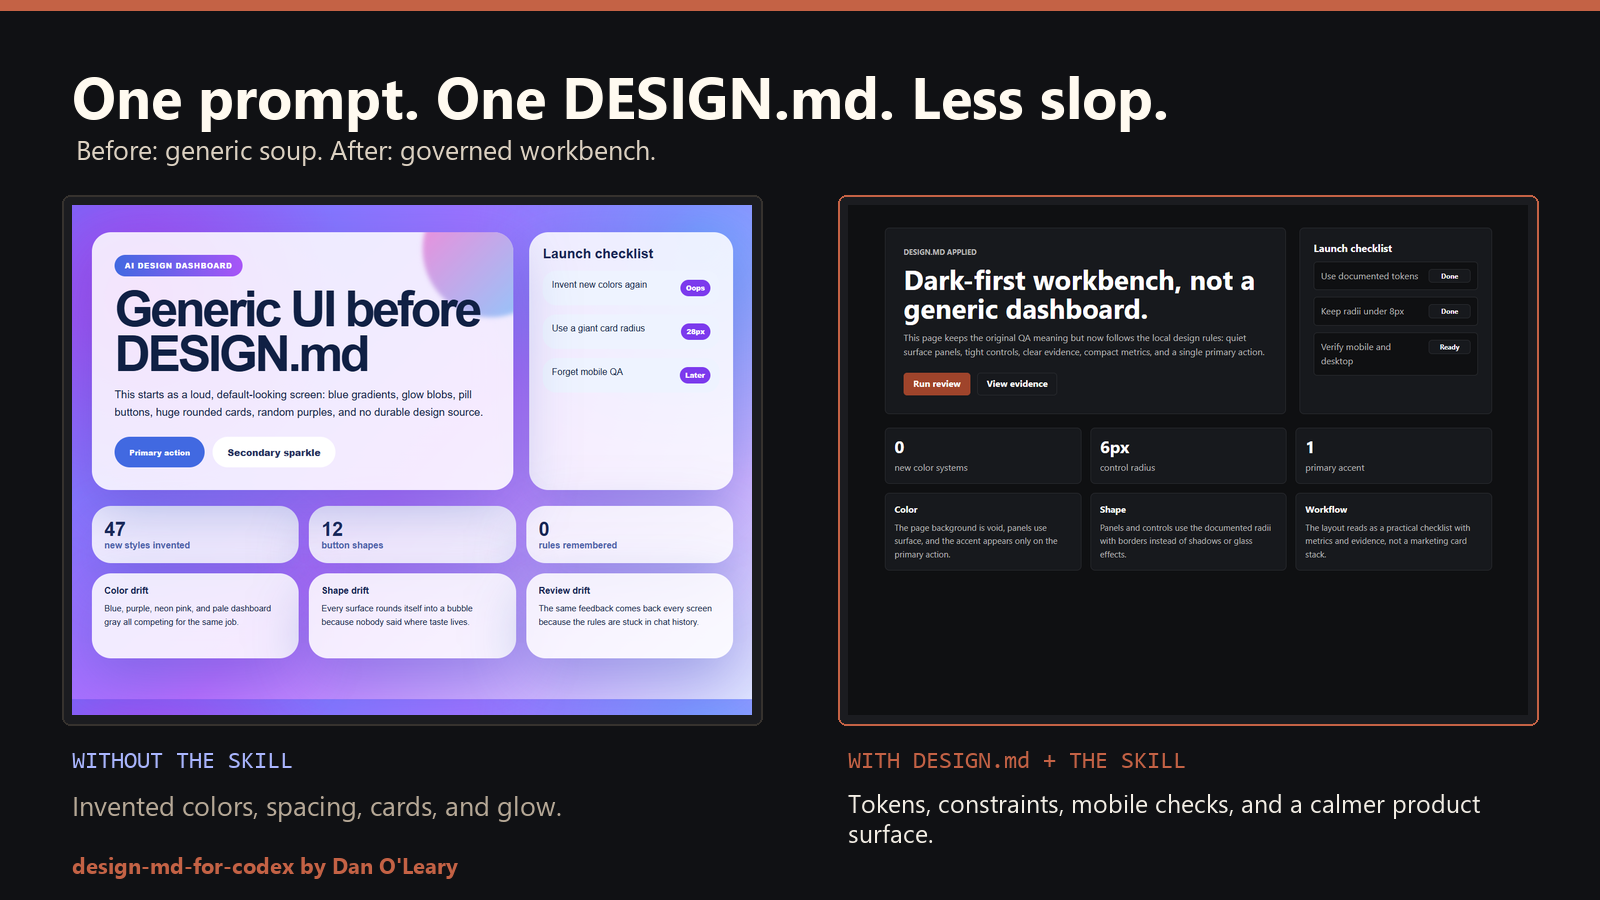
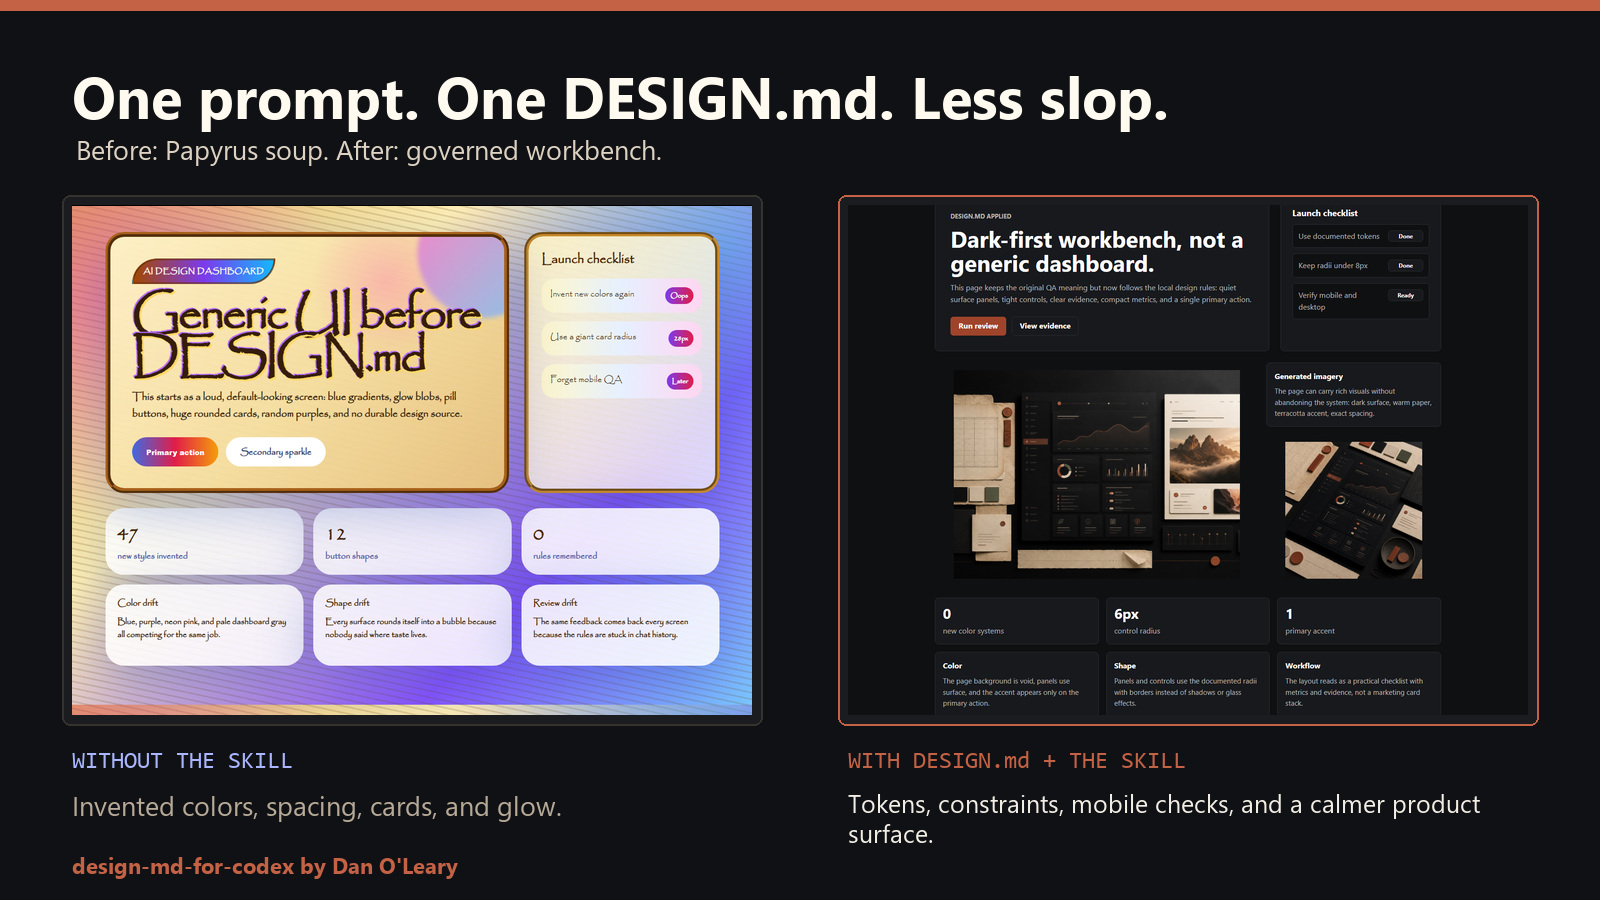
Make proof before and after more vivid

diff --git a/qa/fixture/after.html b/qa/fixture/after.html
@@ -50,6 +50,13 @@
         align-items: stretch;
       }
 
+      .showcase {
+        display: grid;
+        grid-template-columns: minmax(0, 1.3fr) minmax(220px, 0.7fr);
+        gap: var(--space-lg);
+        margin-top: var(--space-xl);
+      }
+
       .card,
       .panel,
       .metric,
@@ -61,6 +68,28 @@
 
       .card {
         padding: 32px;
+      }
+
+      .art-card {
+        overflow: hidden;
+        min-height: 240px;
+      }
+
+      .art-card img {
+        display: block;
+        width: 100%;
+        height: 100%;
+        min-height: 240px;
+        object-fit: cover;
+      }
+
+      .art-copy {
+        display: grid;
+        gap: var(--space-lg);
+      }
+
+      .art-copy .note {
+        min-height: auto;
       }
 
       .eyebrow {
@@ -202,6 +231,7 @@
         }
 
         .hero,
+        .showcase,
         .metrics,
         .notes {
           grid-template-columns: 1fr;
@@ -246,6 +276,21 @@
             <span class="tag">Ready</span>
           </div>
         </aside>
+      </section>
+
+      <section class="showcase" aria-label="AI generated design proof">
+        <figure class="art-card">
+          <img src="../../assets/proof/ai-workbench-wide.png" alt="AI generated dark workbench with warm paper design-system artifacts">
+        </figure>
+        <div class="art-copy">
+          <article class="note">
+            <strong>Generated imagery</strong>
+            <p>The page can carry rich visuals without abandoning the system: dark surface, warm paper, terracotta accent, exact spacing.</p>
+          </article>
+          <figure class="art-card">
+            <img src="../../assets/proof/ai-workbench-detail.png" alt="AI generated close-up of governed interface and parchment design tokens">
+          </figure>
+        </div>
       </section>
 
       <section class="metrics" aria-label="Design system metrics">

diff --git a/qa/fixture/index.html b/qa/fixture/index.html
@@ -12,12 +12,13 @@
       body {
         margin: 0;
         min-width: 320px;
-        font-family: Arial, Helvetica, sans-serif;
-        color: #102044;
+        font-family: Papyrus, "Comic Sans MS", fantasy;
+        color: #3b260f;
         background:
-          radial-gradient(circle at 12% 18%, rgba(255, 0, 214, 0.45), transparent 28%),
-          radial-gradient(circle at 90% 8%, rgba(0, 221, 255, 0.38), transparent 30%),
-          linear-gradient(135deg, #5a7cff 0%, #b96dff 52%, #dfe7ff 100%);
+          radial-gradient(circle at 12% 18%, rgba(255, 0, 214, 0.35), transparent 28%),
+          radial-gradient(circle at 90% 8%, rgba(0, 221, 255, 0.34), transparent 30%),
+          repeating-linear-gradient(12deg, rgba(112, 70, 20, 0.18) 0 3px, transparent 3px 12px),
+          linear-gradient(135deg, #d7a84a 0%, #fff0b5 34%, #8a53ff 70%, #77d9ff 100%);
       }
 
       main {
@@ -46,6 +47,10 @@
         position: relative;
         overflow: hidden;
         padding: 40px;
+        border: 9px ridge #a76019;
+        background:
+          radial-gradient(circle at 70% 18%, rgba(255, 105, 180, 0.34), transparent 22%),
+          linear-gradient(135deg, rgba(255, 247, 202, 0.94), rgba(235, 198, 120, 0.92));
       }
 
       .blob {
@@ -64,9 +69,10 @@
         display: inline-flex;
         margin-bottom: 18px;
         padding: 10px 18px;
-        border-radius: 999px;
-        color: #ffffff;
-        background: linear-gradient(90deg, #4169e1, #a855f7);
+        border: 3px double #6b2f00;
+        border-radius: 999px 12px 999px 12px;
+        color: #fffbe8;
+        background: linear-gradient(90deg, #a34800, #7c3aed, #13b8ff);
         font-size: 13px;
         font-weight: 800;
         letter-spacing: 0.08em;
@@ -79,7 +85,9 @@
         margin: 0 0 18px;
         font-size: clamp(44px, 8vw, 88px);
         line-height: 0.9;
-        letter-spacing: -0.06em;
+        letter-spacing: -0.05em;
+        color: #341d0a;
+        text-shadow: 3px 3px 0 #ffd966, -2px -2px 0 #b96dff;
       }
 
       p {
@@ -88,6 +96,7 @@
         margin: 0 0 28px;
         font-size: 19px;
         line-height: 1.6;
+        font-weight: 700;
       }
 
       .actions {
@@ -103,7 +112,7 @@
         border: 0;
         border-radius: 999px;
         color: #ffffff;
-        background: #4169e1;
+        background: linear-gradient(90deg, #4169e1, #e11d48, #f59e0b);
         font-weight: 800;
       }
 
@@ -116,13 +125,17 @@
 
       .panel {
         padding: 24px;
+        border: 8px groove #c88a2a;
+        background:
+          linear-gradient(135deg, rgba(255, 244, 198, 0.9), rgba(255, 255, 255, 0.72)),
+          repeating-linear-gradient(0deg, transparent 0 14px, rgba(122, 73, 10, 0.12) 14px 15px);
       }
 
       .panel h2,
       .metric strong,
       .note strong {
         margin: 0;
-        color: #172554;
+        color: #4a2500;
       }
 
       .task {
@@ -132,7 +145,7 @@
         margin-top: 16px;
         padding: 16px;
         border-radius: 24px;
-        background: #eef3ff;
+        background: linear-gradient(90deg, #fff7cc, #e6f0ff, #ffd6f1);
       }
 
       .tag {
@@ -140,7 +153,7 @@
         padding: 6px 10px;
         border-radius: 999px;
         color: #ffffff;
-        background: #7c3aed;
+        background: linear-gradient(90deg, #7c3aed, #e11d48);
         font-size: 12px;
         font-weight: 800;
       }
@@ -188,6 +201,10 @@
         .metrics,
         .notes {
           grid-template-columns: 1fr;
+        }
+
+        .card {
+          padding: 26px;
         }
       }
     </style>

diff --git a/index.html b/index.html
@@ -86,7 +86,7 @@
       <section class="proof" id="proof">
         <div class="proof-copy">
           <p class="eyebrow">The habit</p>
-          <h2>Before: generic soup. After: governed workbench.</h2>
+          <h2>Before: Papyrus soup. After: governed workbench.</h2>
         </div>
         <div class="proof-grid">
           <article>
@@ -100,12 +100,12 @@
         </div>
         <div class="proof-media" aria-label="Actual Codex fixture before and after">
           <figure>
-            <img src="assets/proof/fixture-before.png" alt="Before: loud generic SaaS UI with blue-purple gradients, huge rounded cards, pill buttons, and glow blobs">
-            <figcaption>Before: generic soup</figcaption>
+            <img src="assets/proof/fixture-before.png" alt="Before: loud Papyrus-style generic UI with parchment noise, gradients, huge rounded cards, and confused styling">
+            <figcaption>Before: Papyrus soup</figcaption>
           </figure>
           <figure>
-            <img src="assets/proof/fixture-after.png" alt="After: dark DESIGN.md-aligned workbench with bordered surfaces, tight metrics, and a terracotta primary action">
-            <figcaption>After: DESIGN.md workbench</figcaption>
+            <img src="assets/proof/fixture-after.png" alt="After: dark DESIGN.md-aligned workbench with generated imagery, bordered surfaces, tight metrics, and a terracotta primary action">
+            <figcaption>After: AI-image workbench</figcaption>
           </figure>
         </div>
         <div class="link-row" aria-label="Project files">
@@ -155,7 +155,7 @@
           <a href="assets/share-before-after.png">Share image</a>
         </div>
         <figure class="share-preview">
-          <img src="assets/share-before-after.png" alt="Before generic soup and after governed workbench comparison for design-md-for-codex">
+          <img src="assets/share-before-after.png" alt="Before Papyrus soup and after governed workbench comparison for design-md-for-codex">
         </figure>
       </section>
     </main>

diff --git a/qa/generate-launch-assets.py b/qa/generate-launch-assets.py
@@ -190,7 +190,7 @@ def save_before_after() -> None:
     draw.rectangle((0, 0, 1600, 900), fill=NIGHT)
     draw.rectangle((0, 0, 1600, 10), fill=TERRACOTTA)
     draw.text((72, 56), "One prompt. One DESIGN.md. Less slop.", font=font(FONT["bold"], 58), fill=IVORY)
-    draw.text((76, 130), "Before: generic soup. After: governed workbench.", font=font(FONT["regular"], 27), fill="#ded3c3")
+    draw.text((76, 130), "Before: Papyrus soup. After: governed workbench.", font=font(FONT["regular"], 27), fill="#ded3c3")
 
     before = Image.open(PROOF / "fixture-before.png").convert("RGB")
     after = Image.open(PROOF / "fixture-after.png").convert("RGB")

diff --git a/README.md b/README.md
@@ -63,16 +63,16 @@ Replace it with your taste.
 
 ## Prove It
 
-Before: generic soup. After: governed workbench.
+Before: Papyrus soup. After: governed workbench.
 
-![Before: loud generic SaaS UI](assets/proof/fixture-before.png)
+![Before: loud Papyrus-style generic UI](assets/proof/fixture-before.png)
 
-![After: Codex read DESIGN.md and turned it into a dark workbench](assets/proof/fixture-after.png)
+![After: Codex read DESIGN.md and turned it into a dark AI-image-backed workbench](assets/proof/fixture-after.png)
 
 Artifacts:
 
-- `qa/fixture/index.html`: reusable bad starting point with generic soup.
-- `qa/fixture/after.html`: output from the Codex proof run.
+- `qa/fixture/index.html`: reusable bad starting point with Papyrus, generic soup, and drift.
+- `qa/fixture/after.html`: output from the Codex proof run with generated workbench imagery.
 - `qa/fixture/codex-result.md`: final Codex response from the run.
 
 Run the local smoke test:

diff --git a/qa/README.md b/qa/README.md
@@ -59,7 +59,8 @@ It checks:
 5. Confirm Codex read or applied `DESIGN.md` by checking the response, diff, or rendered UI:
    - dark command surface
    - terracotta primary action
-   - no blue gradient
+   - no Papyrus/fantasy type or loud gradient
+   - governed generated imagery
    - compact controls
    - no radius above 8px
 
@@ -67,11 +68,13 @@ It checks:
 
 The repo includes one captured proof run:
 
-- `fixture/index.html`: intentionally loud generic starting point.
-- `fixture/after.html`: output from a Codex run using `$design-system`.
+- `fixture/index.html`: intentionally loud Papyrus-style generic starting point.
+- `fixture/after.html`: output from a Codex run using `$design-system`, now with generated workbench imagery.
 - `fixture/codex-result.md`: final Codex response.
 - `../assets/proof/fixture-before.png`: before screenshot.
 - `../assets/proof/fixture-after.png`: after screenshot.
+- `../assets/proof/ai-workbench-wide.png`: generated workbench image used in the after proof.
+- `../assets/proof/ai-workbench-detail.png`: generated detail image used in the after proof.
 
 ## Launch Images
 

diff --git a/COPY.md b/COPY.md
@@ -10,7 +10,7 @@ Sharp. Direct. Useful. Builder-first. Inspired by X/Grok cadence and Claude warm
 
 - Make Codex remember your taste.
 - `DESIGN.md` is the memory. This skill is the habit.
-- Before: generic soup. After: governed workbench.
+- Before: Papyrus soup. After: governed workbench.
 - Made by Dan O'Leary for friends, builders, and people tired of generic AI UI.
 
 ## Landing Page
@@ -57,13 +57,13 @@ Why:
 Proof:
 
 - The habit
-- Before: generic soup. After: governed workbench.
+- Before: Papyrus soup. After: governed workbench.
 - Without it
 - Codex can ship loud default UI: gradients, blobs, pill buttons, huge radii, and a new visual system every screen.
 - With it
 - Codex reads `DESIGN.md`, applies the tokens, turns noise into a workbench, and checks desktop and mobile.
-- Before: generic soup
-- After: DESIGN.md workbench
+- Before: Papyrus soup
+- After: AI-image workbench
 
 Credit:
 

diff --git a/qa/fixture/expected.md b/qa/fixture/expected.md
@@ -9,12 +9,13 @@ $design-system Make this page follow DESIGN.md.
 Codex should:
 
 - Show that it read or applied `DESIGN.md` in its response, diff, or rendered UI.
-- Remove the blue gradient.
-- Remove glow blobs, pill buttons, heavy shadows, and random purple/blue styling.
+- Remove the Papyrus/fantasy type stack.
+- Remove the parchment noise, glow blobs, pill buttons, heavy shadows, and random purple/blue styling.
 - Use a dark page background.
 - Use a dark panel with a thin border.
 - Change the primary button to the terracotta accent.
 - Reduce rounded corners to 8px or less.
 - Reshape the page into a tighter workbench with checklist, metrics, and evidence notes.
+- Add governed generated imagery without breaking the design rules.
 - Preserve the simple page behavior.
 - Verify mobile and desktop layout if browser tools are available.

diff --git a/qa/fixture/codex-result.md b/qa/fixture/codex-result.md
@@ -5,7 +5,7 @@ Applied rules:
 - Inter/system typography
 - `6px` controls and `8px` panels
 - Accent color only on the primary action
-- Removed the blue/purple gradient, glow blob, pill buttons, heavy shadows, and unrelated colors
-- Reshaped the content into a tighter workbench with checklist, metrics, and evidence notes
+- Removed the Papyrus/fantasy type, parchment noise, blue/purple gradient, glow blob, pill buttons, heavy shadows, and unrelated colors
+- Reshaped the content into a tighter workbench with checklist, generated imagery, metrics, and evidence notes
 
 Verified with Chrome renders at desktop and mobile widths; both reported no horizontal overflow.

diff --git a/LAUNCH.md b/LAUNCH.md
@@ -21,7 +21,7 @@ I made a tiny Codex skill for people tired of re-prompting taste.
 
 Install one skill. Add `DESIGN.md`. Now Codex starts UI work from your design rules.
 
-Before: generic soup.
+Before: Papyrus soup.
 After: governed workbench.
 
 ```text